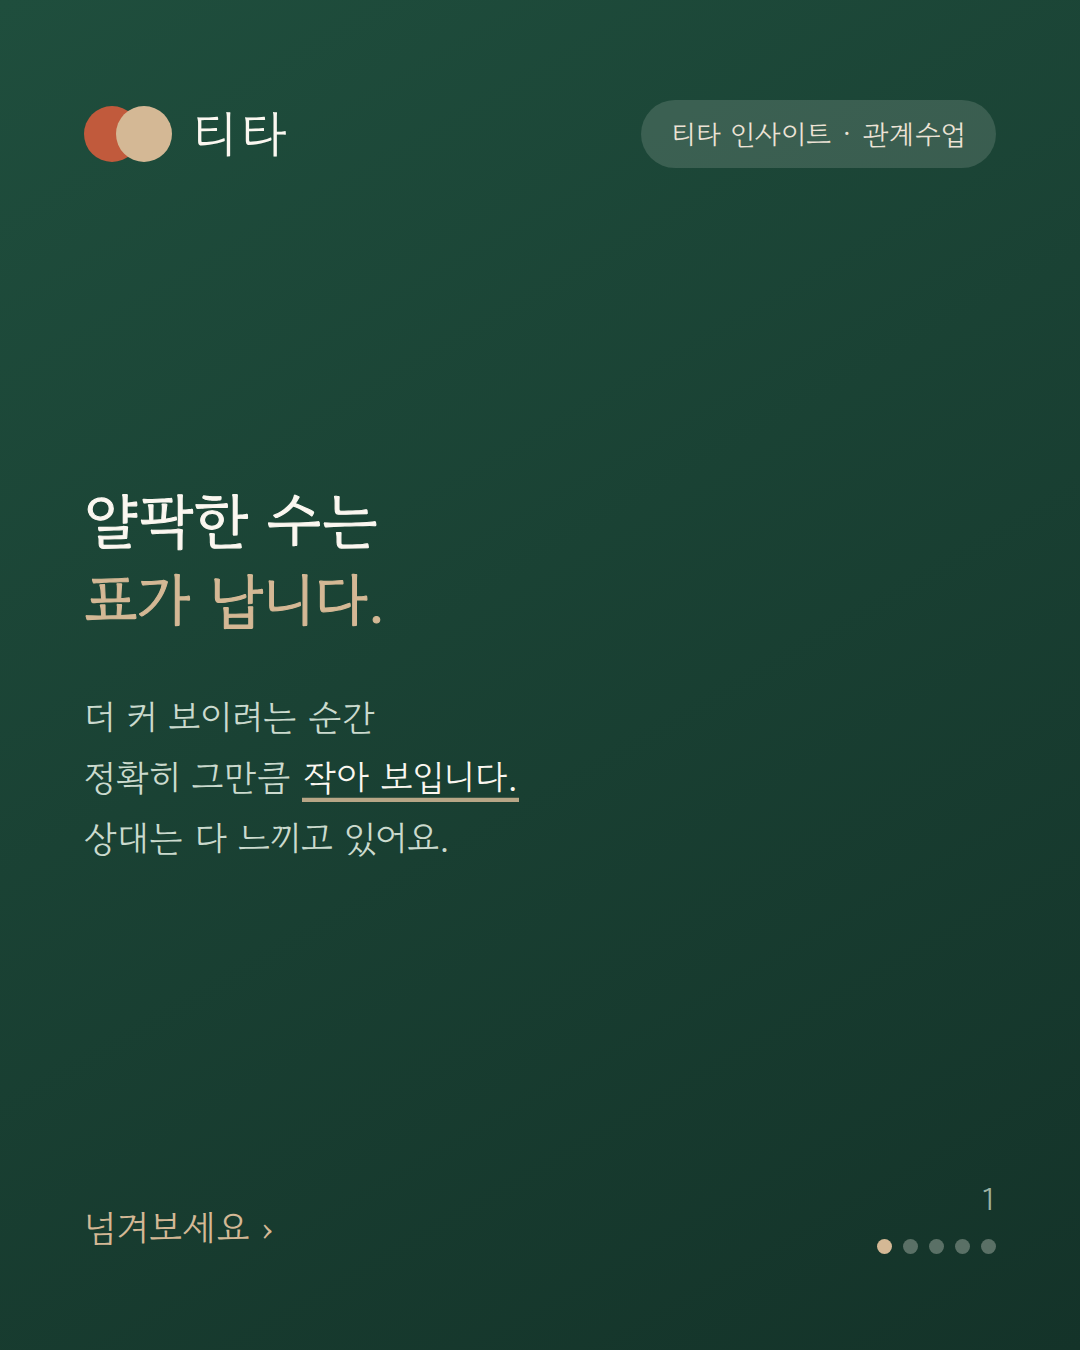
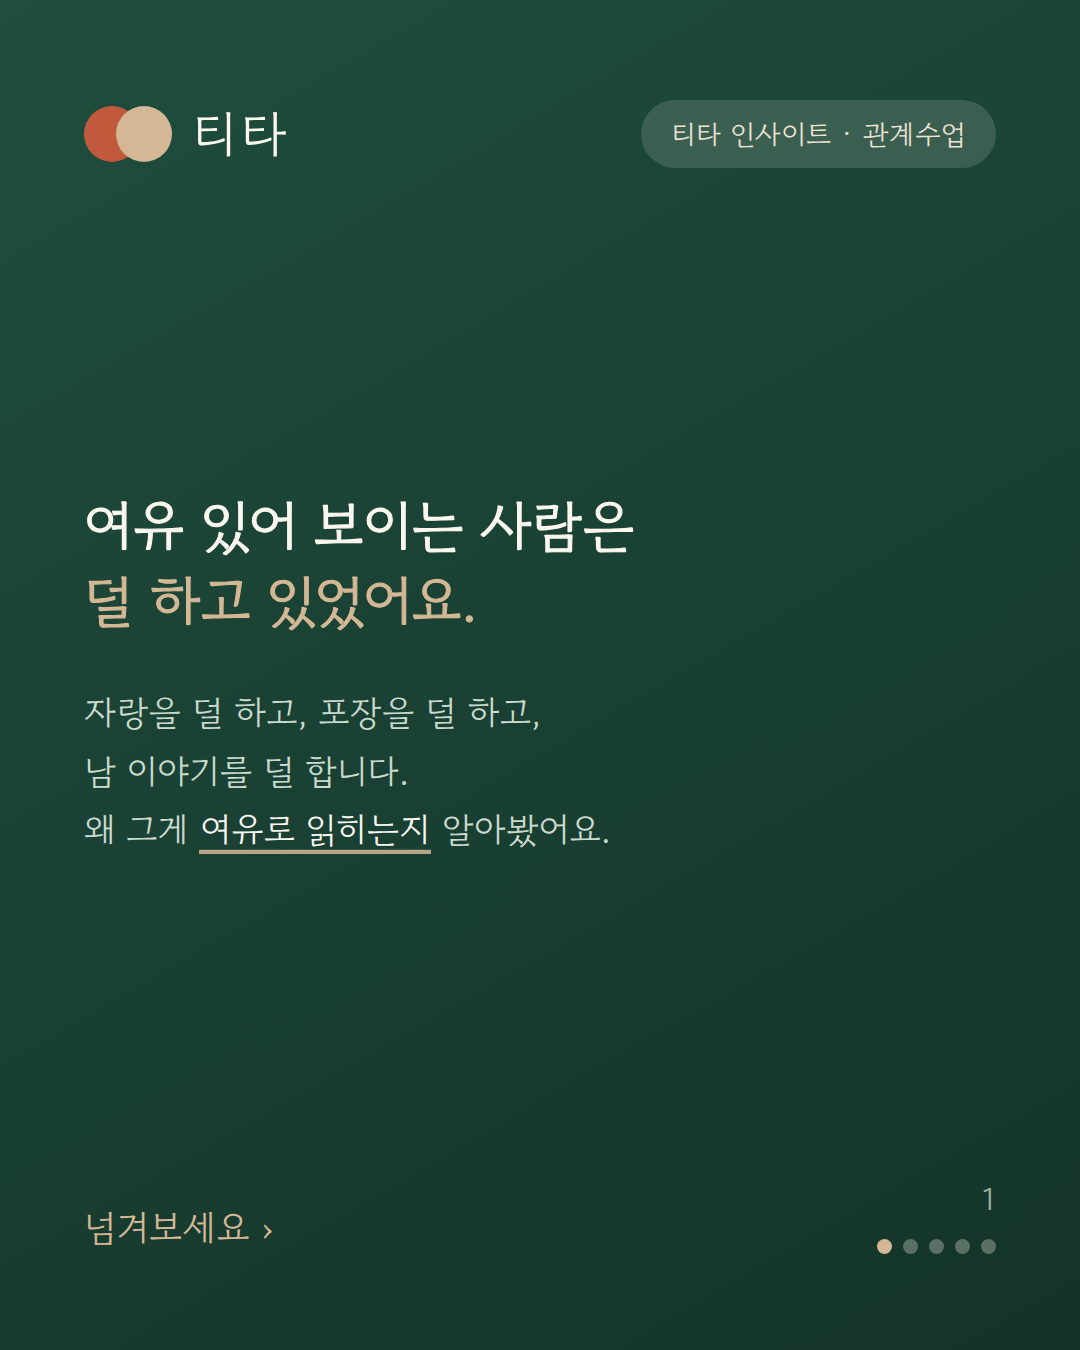
fix(blog): 3탄을 경고에서 관찰로 다시 쓴다
"얄팍한 수는 표가 납니다 / 상대는 다 느끼고 있습니다"는 읽는 사람을 감시받는
쪽에 세운다. 들키니까 하지 말라는 글이 되면, 정작 하려던 말 — 그렇게 하는
편이 더 안정감 있고 여유롭다 — 이 전달되지 않는다.

시선을 뒤집었다. 곁에 두고 싶은 사람을 떠올리는 데서 시작해, 그 사람들이
무언가를 더 하는 게 아니라 덜 하고 있더라는 관찰로 연다. 같은 네 연구가
이제 "들킨다"가 아니라 "왜 그게 여유로 읽히는가"를 설명한다.

  얄팍한 수는 표가 난다        → 여유 있어 보이는 사람은 덜 하고 있었다
  나는 감탄을 기대, 상대는 짜증  → 내가 느끼는 만큼 상대가 느끼진 않는다
  겸손한 척은 자랑보다 나쁘다    → 돌려 말하지 않아도 괜찮다
  깎아내린 말은 나에게 붙는다    → 남 이야기는 그 사람이 아니라 나에게 남는다
                                (좋은 이야기의 따뜻함도 같은 방식으로 남는다)
  꾸미면 들키고                 → 인정하는 쪽이 오히려 커 보인다

특성 전이는 양방향이라는 점을 넣었다. 나쁜 말만 붙는 게 아니라 좋은 말도
붙는다 — 하지 말라가 아니라 해도 되는 쪽을 같이 보여 준다.

마무리도 "안 하는 게 제일 쉽다"에서 "여유는 참는 게 아니라 애쓸 일이 줄어드는
것"으로 바꿨다. 참으라는 주문이 아니라, 덜 하는 쪽이 실제로 더 편하다는
이야기다. slug도 they-can-always-tell → quiet-confidence.

Claude-Session: https://claude.ai/code/session_01SVoaR1M7XWjiBzTKquaj1d

Changed region(s): [[0.0611, 0.4978, 0.55, 0.6533], [0.0611, 0.3422, 0.4278, 0.4667], [0.4583, 0.3733, 0.5806, 0.4356]]

diff --git a/src/app/blog/posts.ts b/src/app/blog/posts.ts
@@ -53,172 +53,164 @@ export interface BlogPost {
 
 export const POSTS: BlogPost[] = [
   {
-    slug: "they-can-always-tell",
-    title: "얄팍한 수는 표가 납니다 — 상대는 다 느끼고 있습니다",
+    slug: "quiet-confidence",
+    title: "굳이 잘 보이려 하지 않는 사람 — 그 편이 더 여유로워 보입니다",
     description:
-      "자랑도, 겸손한 척도, 남을 깎아내리는 말도 상대는 다 읽습니다. 네 편의 연구가 공통으로 가리키는 건 하나입니다. 내가 어떻게 보일 거라 믿는 것과 상대가 실제로 보는 것 사이의 어긋남.",
+      "여유 있어 보이는 사람들의 공통점은 무언가를 더 하는 게 아니라 덜 하는 것이었습니다. 자랑, 포장, 남 이야기. 네 편의 연구가 그 이유를 설명합니다.",
     date: "2026-08-09",
     category: "관계 인사이트",
     tags: [
       "중년",
       "5060",
-      "자랑",
+      "여유",
       "겸손",
-      "험담",
       "진정성",
       "인간관계",
       "어른",
+      "품위",
     ],
     cover: "/blog/insight-13/card-1.png",
     readingMinutes: 6,
     body: [
       {
         type: "p",
-        text: "누구나 자기가 조금 더 대단해 보이고 싶습니다. 저도 그렇습니다. 그런데 그러려고 손을 쓰는 순간 이상한 일이 벌어집니다. **더 커 보이려던 시도가 정확히 그만큼 작아 보이게 만듭니다.**",
+        text: "곁에 두고 싶은 사람이 있습니다. 목소리가 크지 않고, 서두르지 않고, 자기 얘기를 앞세우지 않는 사람. 함께 있으면 이상하게 마음이 편안해집니다.",
       },
       {
         type: "p",
-        text: "이건 기분 탓이 아닙니다. 여러 연구가 같은 지점을 가리킵니다. 그리고 그 지점은 하나로 정리됩니다. **상대는 다 느낍니다.**",
+        text: "그런 분들을 떠올려 보면 공통점이 하나 있습니다. **무언가를 더 하는 게 아니라, 덜 합니다.** 자랑을 덜 하고, 포장을 덜 하고, 남 이야기를 덜 합니다. 그게 왜 여유로 읽히는지 설명해 주는 연구들이 있습니다.",
       },
       {
         type: "image",
         src: "/blog/insight-13/card-1.png",
-        alt: "얄팍한 수는 표가 난다 — 상대는 다 느끼고 있다는 티타 인사이트 카드",
+        alt: "여유 있어 보이는 사람은 무언가를 더 하는 게 아니라 덜 한다는 티타 인사이트 카드",
         caption: "티타 인사이트 · 관계수업 #13",
       },
-      { type: "h2", text: "자랑은 계산이 어긋난 거래다" },
+      { type: "h2", text: "좋은 일은 나눌수록 좋은데, 전하는 방식이 남는다" },
       {
         type: "image",
         src: "/blog/insight-13/card-2.png",
-        alt: "자랑하는 사람은 상대가 뿌듯해할 거라 믿지만 상대는 짜증을 느낀다는 티타 인사이트 카드",
+        alt: "말하는 쪽과 듣는 쪽이 느끼는 것이 다르다는 자기 홍보 연구 티타 인사이트 카드",
         caption: "Scopelliti 외, Psychological Science (2015)",
       },
       {
         type: "p",
-        text: "아이린 스코펠리티 연구팀은 자랑하는 사람과 그 말을 듣는 사람을 짝지어 놓고, 양쪽이 각각 무엇을 느끼는지 물었습니다.",
+        text: "아이린 스코펠리티 연구팀은 자기 이야기를 꺼낸 사람과 그 말을 들은 사람에게 각각 무엇을 느꼈는지 물었습니다.",
       },
       {
         type: "p",
-        text: "자랑한 쪽은 상대가 **자기를 자랑스러워하고 함께 기뻐할 거라고 믿었습니다.** 실제로 듣는 쪽이 느낀 것은 달랐습니다. **짜증**이었습니다. 자랑한 사람은 긍정적 반응은 과대평가하고 부정적 반응은 과소평가했습니다. 양쪽 다 틀린 겁니다.",
+        text: "말한 쪽은 상대가 **함께 기뻐해 줄 거라고 생각했습니다.** 그런데 듣는 쪽의 마음은 조금 달랐습니다. 좋은 소식이라는 건 알지만, 마음이 그만큼 따라가지는 않았습니다. 연구팀은 그 차이를 이렇게 설명했습니다. **자기 기분을 상대에게 그대로 옮겨 놓고 짐작하기 때문**이라고요.",
       },
       {
         type: "p",
-        text: "왜 이렇게 어긋날까요. 연구팀은 **자기 감정을 상대에게 그대로 투사하기 때문**이라고 봤습니다. 내가 기쁘니 상대도 기쁠 거라 여기는 것입니다. 그래서 자랑은 대개 **자기만 즐거운 거래**로 끝납니다.",
+        text: "좋은 일을 나누지 말라는 얘기가 아닙니다. 다만 **내가 느끼는 만큼 상대가 느끼지는 않는다**는 걸 알고 있는 사람은 말을 조금 짧게 합니다. 그리고 그 짧음이 여유로 읽힙니다.",
       },
-      { type: "h2", text: "겸손한 척은 그냥 자랑보다 나쁘다" },
+      { type: "h2", text: "돌려 말하지 않아도 됩니다" },
       {
         type: "image",
         src: "/blog/insight-13/card-3.png",
-        alt: "겸손을 가장한 자랑은 대놓고 자랑보다도 그냥 불평보다도 못하다는 티타 인사이트 카드",
-        caption: "Sezer, Gino & Norton (JPSP)",
+        alt: "겸손이나 불평으로 감싼 자랑은 그냥 말하는 것보다 효과가 낮았다는 티타 인사이트 카드",
+        caption: "Sezer, Gino & Norton (JPSP) · 9개 연구",
       },
       {
         type: "p",
-        text: "그럼 살짝 포장하면 어떨까요. “요즘 일이 너무 많아서 잠을 못 자요.” “저 같은 사람한테 왜 자꾸 이런 걸 맡기시는지.” 자랑을 불평이나 겸손으로 감싸는 방식입니다.",
+        text: "자기 얘기를 하기가 멋쩍어 이렇게 돌려 말할 때가 있습니다. “요즘 일이 너무 많아서 잠을 못 자요.” “저 같은 사람한테 왜 자꾸 이런 걸 맡기시는지 모르겠어요.”",
       },
       {
         type: "p",
-        text: "오불 세제르 연구팀은 이걸 아홉 개의 연구로 파고들었습니다. 일주일짜리 일기 연구와 현장 실험까지 동원했습니다. 결과는 명확했습니다. **두 방식 모두 그냥 자랑하는 것보다 못했습니다.** 호감도, 유능해 보이는 정도, 부탁을 들어주는 비율이 전부 떨어졌습니다.",
+        text: "오불 세제르 연구팀이 아홉 개의 연구로 이 방식을 살펴봤습니다. 일주일짜리 일기 연구와 현장 실험까지 포함했습니다. 결과가 흥미로웠습니다. **돌려 말한 쪽이 그냥 말한 쪽보다 호감을 덜 얻었습니다.** 유능해 보이는 정도도, 부탁을 들어주는 비율도 마찬가지였습니다.",
       },
       {
         type: "p",
-        text: "특히 불평으로 감싼 쪽은 **그냥 불평만 하는 것보다도 못했습니다.** 자랑의 이득도, 겸손의 이득도 얻지 못하고 둘 다 잃은 것입니다. 이유는 하나였습니다. **진실되게 보이지 않아서.**",
+        text: "이유는 하나였습니다. 듣는 사람이 **말과 마음이 조금 어긋나 있다**고 느꼈기 때문입니다. 감추려던 쑥스러움이 오히려 눈에 띈 셈입니다.",
       },
       {
         type: "callout",
-        text: "포장은 벗겨집니다. 그리고 벗겨진 자리에는 자랑이 아니라 ‘수를 쓰려 했다’는 사실만 남습니다.",
+        text: "그래서 담백한 편이 편합니다. 좋으면 좋다고, 힘들면 힘들다고. 그 편이 듣는 쪽도 받기 쉽습니다.",
       },
-      { type: "h2", text: "깎아내린 말은 나에게 옮겨 붙는다" },
+      { type: "h2", text: "남 이야기는 그 사람이 아니라 나에게 남는다" },
       {
         type: "image",
         src: "/blog/insight-13/card-4.png",
-        alt: "남을 험담하면 그 성격이 말한 사람에게 옮겨 붙는다는 특성 전이 연구 티타 인사이트 카드",
+        alt: "남에 대해 말한 성격이 말한 사람에게 옮겨져 기억된다는 특성 전이 연구 티타 인사이트 카드",
         caption: "Skowronski 외, JPSP (1998) · 특성 전이",
       },
       {
         type: "p",
-        text: "남을 낮춰 내가 올라서는 방법도 있습니다. 그런데 여기엔 더 이상한 일이 벌어집니다.",
+        text: "이건 조금 신기한 연구입니다. 존 스코론스키 연구팀은 **특성 전이(spontaneous trait transference)** 라는 현상을 발견했습니다.",
       },
       {
         type: "p",
-        text: "존 스코론스키 연구팀은 **특성 전이(spontaneous trait transference)** 라는 현상을 밝혔습니다. 어떤 사람이 남의 못된 행동을 이야기하면, 듣는 사람은 **그 못됨을 말한 사람에게 붙여서 기억합니다.** 누가 잔인하다고 전한 사람이 잔인한 사람으로 남고, 누가 부정직하다고 전한 사람이 부정직한 사람으로 남습니다.",
+        text: "누군가에 대해 이야기하면, 듣는 사람의 기억에는 그 성격이 **말한 사람 쪽에 붙어서** 남는다는 것입니다. 어떤 사람이 인색하더라 하고 전하면, 시간이 지난 뒤 듣는 사람의 머릿속에는 **전한 사람이 인색한 인상**으로 남습니다.",
       },
       {
         type: "p",
-        text: "무서운 건 이게 **판단이 아니라 자동 연상**이라는 점입니다. 듣는 사람이 “저 말은 저 사람 얘기지 네 얘기가 아니잖아” 하고 이성적으로 정리해도, 연상은 그대로 남습니다. 그리고 시간이 지나도 지워지지 않았습니다.",
+        text: "누구를 탓하는 일이 아닙니다. 듣는 사람이 그렇게 판단해서가 아니라, 사람 기억이 원래 그렇게 붙여서 저장하기 때문입니다. 반대도 성립합니다. **누군가의 좋은 점을 이야기하면 그 따뜻함도 말한 사람에게 남습니다.**",
       },
       {
         type: "callout",
-        text: "급을 나누려는 순간 내 급이 내려간다는 말은 비유가 아니었습니다. 사람 머릿속에서 실제로 그렇게 작동합니다.",
+        text: "남 이야기를 잘 하지 않는 분들이 유독 단단해 보이는 데는 이런 이유가 있었습니다.",
       },
-      { type: "h2", text: "반대로, 약점은 나에게만 흉하다" },
+      { type: "h2", text: "인정하는 쪽이 오히려 커 보입니다" },
       {
         type: "image",
         src: "/blog/insight-13/card-5.png",
-        alt: "내 약점은 나에게만 나약함으로 보이고 남에게는 용기로 보인다는 아름다운 실수 효과 카드",
+        alt: "내 약점은 나에게만 나약해 보이고 남에게는 용기로 보인다는 아름다운 실수 효과 카드",
         caption: "Bruk 외 (2018) · 아름다운 실수 효과",
       },
       {
         type: "p",
-        text: "여기까지 보면 사람 눈이 참 매섭습니다. 그런데 어긋남은 반대 방향으로도 일어납니다. 그리고 이쪽은 우리에게 유리합니다.",
+        text: "안나 브루크 연구팀은 사람들에게 약한 모습을 드러내는 장면을 떠올리게 했습니다. 큰 실수를 인정하는 일, 크게 다툰 뒤 먼저 사과하는 일 같은 것이었습니다.",
       },
       {
         type: "p",
-        text: "안나 브루크 연구팀은 사람들에게 약한 모습을 드러내는 장면을 상상하게 했습니다. 회사에서 큰 실수를 인정하는 일, 크게 다툰 뒤 먼저 사과하는 일 같은 것이었습니다.",
+        text: "**내가 하면 나약해 보였습니다. 남이 하면 용기로 보였습니다.** 똑같은 행동인데 안에서 볼 때와 밖에서 볼 때가 정반대였습니다. 연구팀은 이걸 **아름다운 실수 효과**라고 불렀습니다.",
       },
       {
         type: "p",
-        text: "**내가 그러는 건 나약해 보였습니다. 남이 그러는 건 용기로 보였습니다.** 같은 행동인데 안에서 볼 때와 밖에서 볼 때가 정반대였습니다. 연구팀은 이걸 **아름다운 실수 효과**라고 불렀습니다.",
+        text: "우리가 감추려 애쓰는 것들이 사실 **밖에서는 흉이 아니었다**는 뜻입니다. 모른다고 말하는 것, 틀렸다고 인정하는 것, 먼저 미안하다고 하는 것. 안에서는 지는 것 같지만 보는 사람 눈에는 그럴 수 있는 사람으로 보입니다.",
+      },
+      { type: "h2", text: "또래끼리는 더 잘 압니다" },
+      {
+        type: "p",
+        text: "여기에 하나만 덧붙이겠습니다. 지난 글에서 다룬 연구인데, 갈등 상황을 주고 앞으로 어떻게 흘러갈지 추론하게 했더니 **60~90세가 젊은 층보다 더 정확했습니다.** 여러 입장을 함께 헤아리고, 말 뒤의 사정을 읽는 능력이 나이와 함께 올라갔습니다.",
       },
       {
         type: "p",
-        text: "정리하면 이렇습니다. **꾸미면 들키고, 인정하면 올라갑니다.** 우리가 감추려는 것은 대개 감출 필요가 없는 것이고, 감추려는 시도 자체가 유일하게 감춰지지 않습니다.",
+        text: "그러니 또래 앞에서는 굳이 애쓰지 않으셔도 됩니다. 상대도 살아온 만큼 압니다. 힘주지 않은 말이 **오히려 더 잘 전해지는 자리**입니다.",
       },
-      { type: "h2", text: "그리고 나이가 들수록 더 잘 보입니다" },
+      { type: "h2", text: "여유는 참는 게 아니라, 애쓸 일이 줄어드는 것" },
       {
         type: "p",
-        text: "여기에 하나만 더 얹겠습니다. **내 앞에 앉은 사람도 나이가 들었다면, 그는 나를 더 정확히 읽습니다.**",
-      },
-      {
-        type: "p",
-        text: "지난 글에서 다룬 연구입니다. 갈등 상황을 주고 어떻게 흘러갈지 추론하게 했더니 **60~90세가 젊은 층보다 더 정확했습니다.** 여러 입장을 동시에 헤아리고, 겉으로 드러난 말 뒤의 사정을 읽는 능력이 나이와 함께 올라갔습니다.",
+        text: "네 연구를 나란히 놓고 보면 한 방향이 보입니다. **덜 하는 쪽이 더 편안하게 읽힙니다.** 그리고 다행히도 덜 하는 쪽이 실제로 더 편합니다.",
       },
       {
         type: "p",
-        text: "그러니 또래 앞에서 쓰는 수는 유독 잘 보입니다. 상대는 그 수를 예전에도 봤고, 자기도 써 봤고, 결과가 어땠는지도 압니다. **얄팍한 수가 나이 들수록 더 초라해 보이는 데는 이런 이유가 있습니다.**",
-      },
-      { type: "h2", text: "안 하는 게 제일 쉽습니다" },
-      {
-        type: "p",
-        text: "네 연구가 각기 다른 걸 봤지만 결론은 한 곳으로 모입니다. **내가 어떻게 보일 거라 믿는 것과, 상대가 실제로 보는 것이 어긋납니다.** 그리고 어긋나는 방향은 늘 나에게 불리합니다.",
+        text: "말을 고르느라 애쓰지 않아도 되고, 앞서 한 말을 기억해 둘 필요도 없고, 어디까지 말했는지 헤아리지 않아도 됩니다. **여유 있어 보이는 사람이 편안해 보이는 건, 실제로 편하기 때문**인지도 모르겠습니다.",
       },
       {
         type: "p",
-        text: "자랑하면 감탄이 아니라 짜증이 돌아오고, 포장하면 포장한 사실이 드러나고, 남을 낮추면 그 말이 나에게 붙습니다. 애써서 손해를 보는 구조입니다.",
-      },
-      {
-        type: "p",
-        text: "그래서 결론이 의외로 편합니다. **그냥 안 하면 됩니다.** 잘 보이려 애쓰지 않고, 굳이 급을 나누지 않고, 모르면 모른다고 하고, 틀렸으면 틀렸다고 하는 것. 노력이 더 드는 쪽이 아니라 **덜 드는 쪽**입니다.",
+        text: "그러니 오늘은 하나만 덜어 보셔도 좋겠습니다. 좋은 일은 한 문장으로 짧게, 남 이야기는 한 번 삼키고, 모르는 건 모른다고. 그 정도로도 충분히 달라집니다.",
       },
       {
         type: "quote",
-        text: "감추려는 것은 대개 감출 필요가 없는 것이고, 감추려는 시도만은 감춰지지 않습니다.",
+        text: "잘 보이려 애쓰지 않는 것 — 그게 가장 잘 보이는 방법이었습니다.",
       },
     ],
     sources: [
       {
         label:
-          "Scopelliti, Loewenstein & Vosgerau, 「You Call It ‘Self-Exuberance’; I Call It ‘Bragging’」 (Psychological Science, 2015) — 자기 홍보자는 상대의 긍정 반응을 과대평가하고 짜증을 과소평가한다",
+          "Scopelliti, Loewenstein & Vosgerau, 「You Call It ‘Self-Exuberance’; I Call It ‘Bragging’」 (Psychological Science, 2015) — 말하는 쪽과 듣는 쪽의 감정 예측이 어긋난다",
         url: "https://journals.sagepub.com/doi/abs/10.1177/0956797615573516",
       },
       {
         label:
-          "Sezer, Gino & Norton, 「Humblebragging: A Distinct—and Ineffective—Self-Presentation Strategy」 (JPSP) — 9개 연구. 겸손·불평으로 감싼 자랑은 그냥 자랑보다 못하고, 불평형은 단순 불평보다도 못하다",
+          "Sezer, Gino & Norton, 「Humblebragging: A Distinct—and Ineffective—Self-Presentation Strategy」 (JPSP) — 9개 연구. 겸손·불평으로 감싼 표현이 담백한 표현보다 호감·유능감·수용률이 낮았다",
         url: "https://www.hbs.edu/ris/Publication%20Files/Sezer%20Gino%20Norton%20Humblebragging_0533fa02-7fcd-4585-91c9-b7281174edf9.pdf",
       },
       {
         label:
-          "Skowronski, Carlston, Mae & Crawford, 「Spontaneous Trait Transference」 (JPSP, 1998) — 남의 특성을 묘사하면 그 특성이 화자에게 전이되어 기억된다. 논리적 판단이 아닌 자동 연상",
+          "Skowronski, Carlston, Mae & Crawford, 「Spontaneous Trait Transference」 (JPSP, 1998) — 타인에 대해 말한 특성이 화자에게 전이되어 기억된다. 판단이 아닌 자동 연상",
         url: "https://pubmed.ncbi.nlm.nih.gov/9569648/",
       },
       {
@@ -234,16 +226,16 @@ export const POSTS: BlogPost[] = [
     ],
     faq: [
       {
-        q: "자랑을 하면 정말 손해인가요?",
-        a: "2015년 심리과학 연구에 따르면 자랑하는 사람은 상대가 자신을 자랑스러워하고 함께 기뻐할 것이라 기대하지만, 듣는 쪽이 실제로 느끼는 것은 짜증에 가까웠습니다. 자기 감정을 상대에게 투사하기 때문에 생기는 예측 오류입니다.",
+        q: "좋은 일을 이야기하면 안 되나요?",
+        a: "그렇지 않습니다. 다만 2015년 연구에 따르면 말하는 쪽은 상대가 함께 기뻐해 줄 것이라 기대하는 반면, 듣는 쪽의 마음은 그만큼 따라가지 않았습니다. 자기 기분을 상대에게 옮겨 놓고 짐작하기 때문입니다. 짧게 말하는 편이 서로 편합니다.",
       },
       {
-        q: "겸손하게 돌려 말하면 낫지 않나요?",
-        a: "오히려 나쁩니다. 9개 연구로 확인된 결과, 겸손이나 불평으로 감싼 자랑은 그냥 자랑하는 것보다 호감도·유능감·부탁 수용률이 모두 낮았습니다. 불평으로 감싼 경우는 단순히 불평만 하는 것보다도 못했습니다. 진실되게 보이지 않기 때문입니다.",
+        q: "겸손하게 돌려 말하는 게 낫지 않나요?",
+        a: "아홉 개 연구로 확인한 결과, 겸손이나 불평으로 감싼 표현이 담백하게 말한 것보다 호감도·유능감·부탁 수용률이 모두 낮았습니다. 듣는 사람이 말과 마음이 어긋나 있다고 느끼기 때문입니다. 좋으면 좋다고, 힘들면 힘들다고 하는 편이 받기 쉽습니다.",
       },
       {
-        q: "험담이 왜 말한 사람에게 손해인가요?",
-        a: "‘특성 전이’ 때문입니다. 1998년 연구에서, 남의 못된 행동을 전한 사람은 듣는 이의 기억 속에서 그 못된 성격을 지닌 사람으로 남았습니다. 이성적 판단이 아니라 자동적인 연상이라 의식적으로 막기 어렵고, 시간이 지나도 유지됐습니다.",
+        q: "남 이야기를 하면 왜 나에게 남나요?",
+        a: "‘특성 전이’ 때문입니다. 1998년 연구에서, 타인의 성격을 전한 사람은 듣는 이의 기억 속에서 그 성격을 지닌 사람으로 남았습니다. 이성적 판단이 아니라 기억이 자동으로 붙여 저장하는 방식이라 시간이 지나도 유지됐습니다. 좋은 이야기를 하면 그 따뜻함도 같은 방식으로 남습니다.",
       },
     ],
   },
